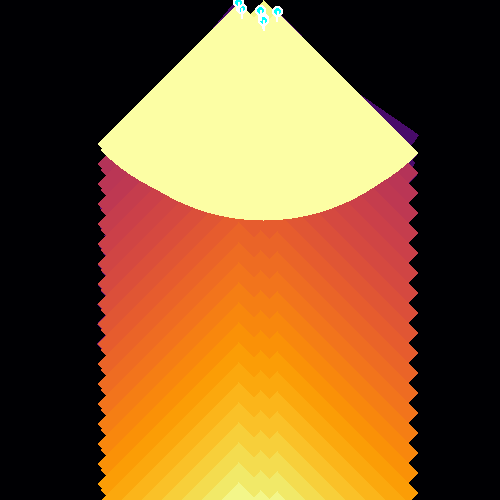
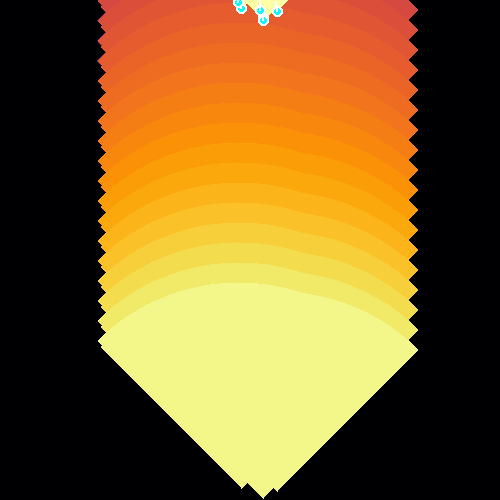
Fix sensor FOV direction and add priority map overlay to weighted view
Sensor FOV Fix:
- Fixed angle calculation: now accounts for image y-axis pointing downward
- Sensors now point in same direction as platform heading (forward)
- Heading indicators corrected to match (negative y for upward direction)

Visualization Enhancement:
- Added 30% transparent grayscale priority map overlay to weighted coverage view
- Shows uncovered high-priority regions as faint gray areas
- Makes it easy to see which hotspots still need coverage
- Weighted coverage (colored) + priority map (gray overlay) = complete picture

Before: Sensors appeared to point backward, heading indicators inverted
After: Sensors point forward, coverage trail clearly visible behind robots

diff --git a/src/game_search.py b/src/game_search.py
@@ -245,7 +245,8 @@ class MultiRobotSearchGame:
                     self.coverage[ty, tx] = 1.0
                     continue
 
-                angle_to_target = np.arctan2(dy, dx)
+                # FIXED: angle_to_target in image coordinates (y-axis points down)
+                angle_to_target = np.arctan2(-dy, dx)  # Negative dy because y increases downward in image
 
                 # Angle difference from heading
                 angle_diff = angle_to_target - heading
@@ -378,9 +379,10 @@ class MultiRobotSearchGame:
             )
 
             # Heading indicator (white line)
+            # FIXED: heading in image coordinates (y increases downward)
             line_length = 10
             end_x = x_px + line_length * np.cos(heading)
-            end_y = y_px + line_length * np.sin(heading)
+            end_y = y_px - line_length * np.sin(heading)  # Negative because y points down
             draw.line([x_px, y_px, end_x, end_y], fill=(255, 255, 255), width=2)
 
         if save_path:
@@ -411,7 +413,7 @@ class MultiRobotSearchGame:
 
     def render_weighted_coverage(self, save_path=None):
         """
-        Render the weighted coverage (SA * priority).
+        Render the weighted coverage (SA * priority) with priority map overlay.
 
         Args:
             save_path: If provided, save image to this path
@@ -426,11 +428,35 @@ class MultiRobotSearchGame:
         weighted_colored = self.cmap(weighted)[:, :, :3]  # RGB only
         img_array = (weighted_colored * 255).astype(np.uint8)
 
-        # Convert to PIL for drawing robots
+        # Convert to PIL
         img = Image.fromarray(img_array)
+
+        # Create priority map overlay (grayscale, mostly transparent)
+        priority_gray = (self.priority_map * 255).astype(np.uint8)
+        priority_overlay = Image.fromarray(priority_gray, mode='L')
+
+        # Convert to RGBA for transparency control
+        priority_overlay = priority_overlay.convert('RGBA')
+
+        # Adjust alpha channel: priority map with 30% opacity
+        priority_data = priority_overlay.getdata()
+        priority_with_alpha = []
+        for item in priority_data:
+            # White where priority is high, with 30% opacity
+            gray_value = item[0]
+            alpha = int(gray_value * 0.3)  # 30% max opacity
+            priority_with_alpha.append((255, 255, 255, alpha))
+
+        priority_overlay.putdata(priority_with_alpha)
+
+        # Composite: weighted coverage + priority overlay
+        img = img.convert('RGBA')
+        img = Image.alpha_composite(img, priority_overlay)
+        img = img.convert('RGB')
+
+        # Draw robots
         draw = ImageDraw.Draw(img)
 
-        # Draw each robot
         for robot_idx in range(self.num_robots):
             x_nmi, y_nmi, heading = self.robots[robot_idx]
             x_px = int(x_nmi / self.nmi_per_pixel)
@@ -447,9 +473,10 @@ class MultiRobotSearchGame:
             )
 
             # Heading indicator (white line)
+            # FIXED: heading in image coordinates (y increases downward)
             line_length = 10
             end_x = x_px + line_length * np.cos(heading)
-            end_y = y_px + line_length * np.sin(heading)
+            end_y = y_px - line_length * np.sin(heading)  # Negative because y points down
             draw.line([x_px, y_px, end_x, end_y], fill=(255, 255, 255), width=2)
 
         if save_path:
